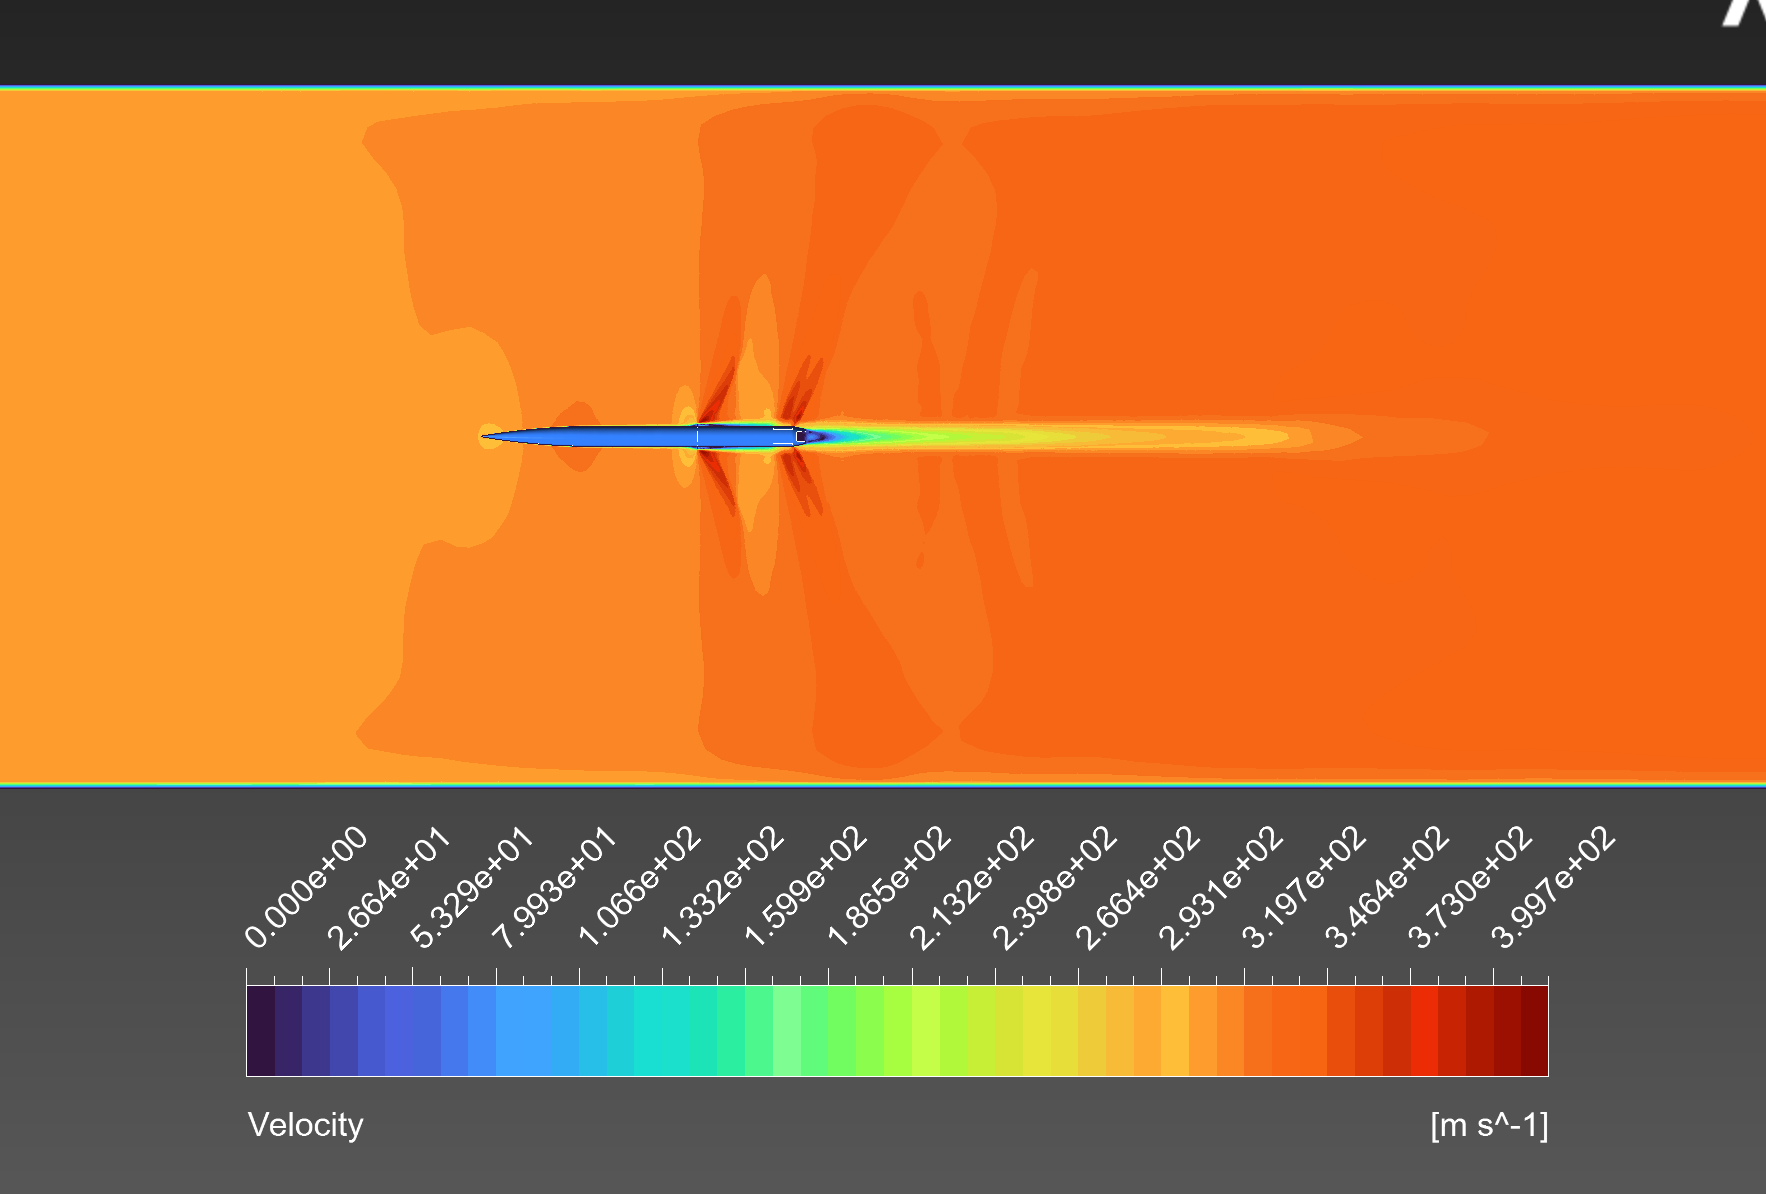
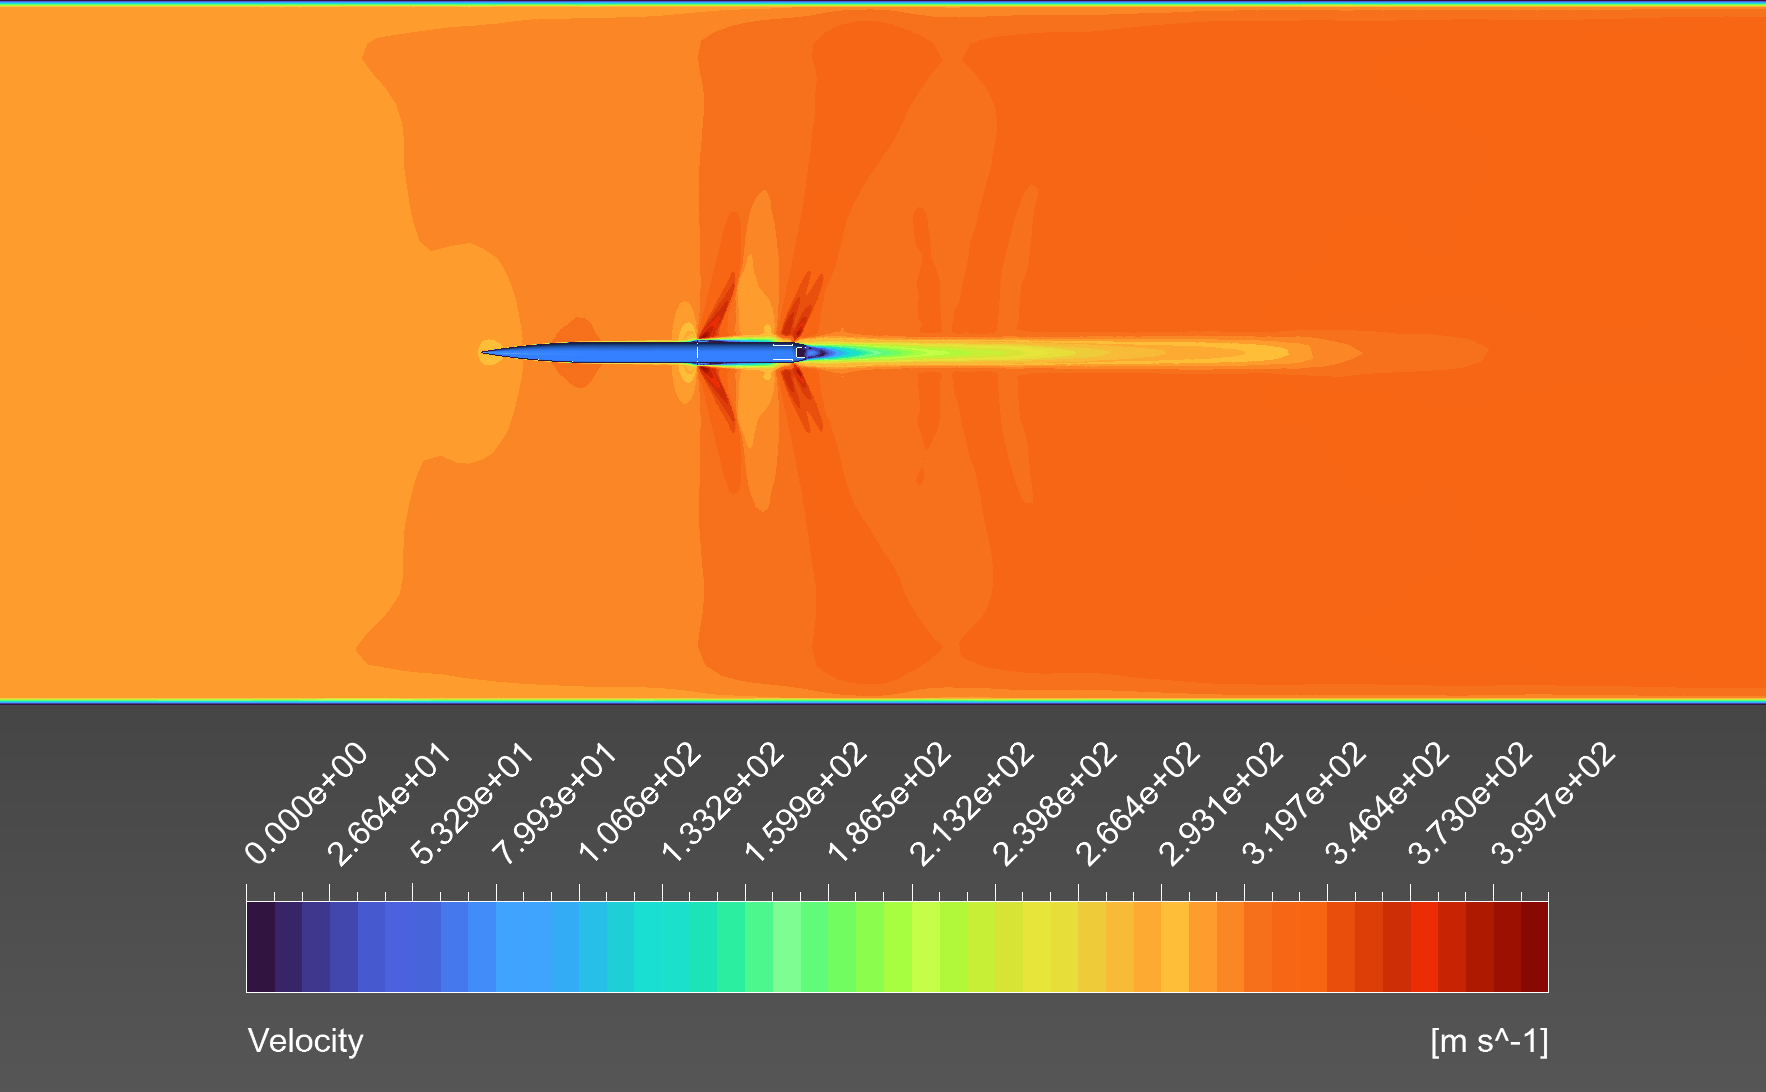
Structure update

diff --git a/index.html b/index.html
@@ -13,6 +13,7 @@
     <nav>
       <ul id="navigator">
         <li><a href="index.html">Home</a></li>
+        <li><a href="about.html">About</a></li>
         <li><a href="projects.html">Projects</a></li>
         <li><a href="resume.html">Resume</a></li>
       </ul>
@@ -21,7 +22,7 @@
     <div id = "projCard">
       <h3>SpaceLex Rocketry Active Airbrakes</h3>
       <p>Novel airbraking mechanism for a 10,000 foot IREC competition rocket. Designed using Autodesk Inventor, simulated using Ansys Fluent</p>
-      <img src="assets/airbrakes_velocity_plot.png", alt="Airbrakes Velocity Plot" width="400" height="300">
+      <img class = "card-image" src="assets/airbrakes_velocity_plot.png", alt="Airbrakes Velocity Plot" width="400" height="300">
     </div>
     <main id="content">Content</main>
   </body>

diff --git a/about.html b/about.html
@@ -1,0 +1,22 @@
+<!doctype html>
+<html lang="en-US">
+  <head>
+    <meta charset="utf-8" />
+    <meta name="viewport" content="width=device-width, initial-scale=1.0" />
+    <title>Test page!</title>
+    <link href="styles.css" rel="stylesheet" />
+  </head>
+  <body>
+    <header id="header">Projects</header>
+
+    <nav>
+      <ul id="navigator">
+        <li><a href="index.html">Home</a></li>
+        <li><a href="projects.html">Projects</a></li>
+        <li><a href="resume.html">Resume</a></li>
+      </ul>
+    </nav>
+
+    <main id="content">Content</main>
+  </body>
+</html>

diff --git a/styles.css b/styles.css
@@ -120,6 +120,7 @@ a {
 
 #projCard {
   background-color: var(--bg-card);
+  grid-template-columns: 3fr 7fr; /* 30% text left, 70% image right */
   padding: 16px;
   border-radius: 8px;
   margin-bottom: 16px;
